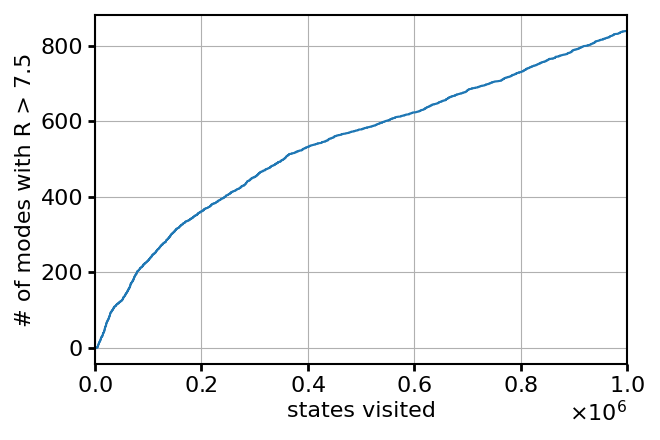
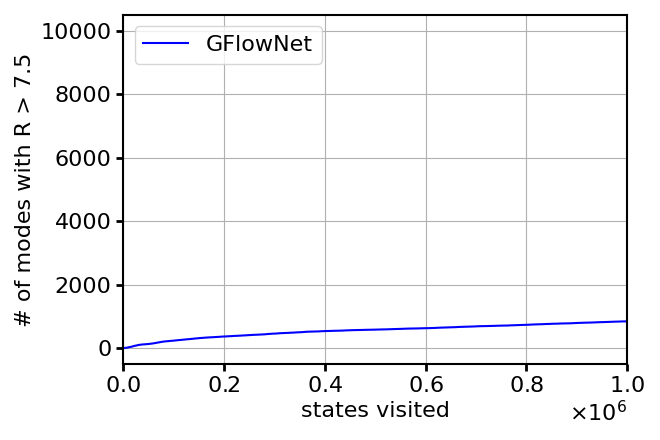
added legend to bemis murcko plot

diff --git a/src/utils/plots.py b/src/utils/plots.py
@@ -455,11 +455,13 @@ def make_bemis_murcko_avg_plot(T):
 
 
     # make plot with # of modes with R > T on the ylabel and states visisted on the xlabel
-    plt.plot(np.arange(len(is_bemis_murcko1))+1,np.cumsum(is_bemis_murcko1 + is_bemis_murcko4 + is_bemis_murcko5)/3)
+    plt.plot(np.arange(len(is_bemis_murcko1))+1,np.cumsum(is_bemis_murcko1 + is_bemis_murcko4 + is_bemis_murcko5)/3, "-", color="blue", label="GFlowNet")
     plt.xlabel("states visited" , fontsize=fontsize)
     # set ylabel with the actual T value
     plt.ylabel(f"# of modes with R > {T}" , fontsize=fontsize)
     plt.grid()
+
+    plt.legend(loc="upper left",fontsize=fontsize)
 
     # use get_offset_text().set_fontsize(fontsize)
     plt.gca().get_xaxis().get_offset_text().set_fontsize(fontsize)
@@ -468,7 +470,7 @@ def make_bemis_murcko_avg_plot(T):
     print(f"Average final cumsum value: {np.cumsum(is_bemis_murcko1 + is_bemis_murcko4 + is_bemis_murcko5)[-1]/3}")
 
     # make the y-axis go from 0 til 10.000
-    
+    plt.ylim(-500,10500)
     plt.xlim(0, 1.0*10**6)
 
     # set the fontsize for the y-axis
